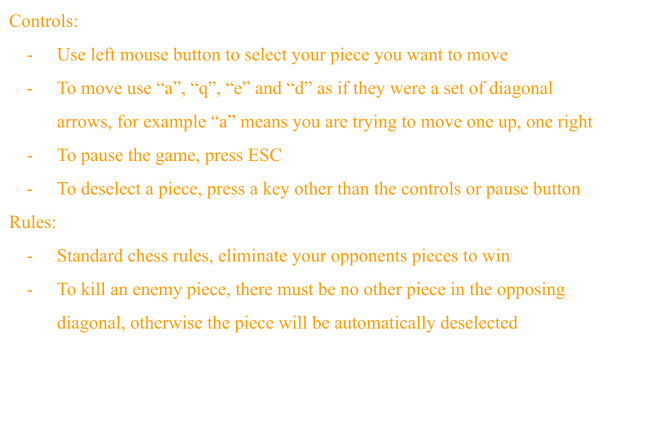
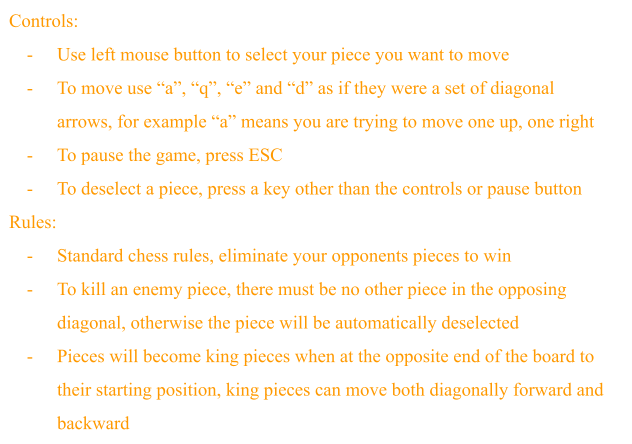
FP - Comments and King Aesthetics
- Added some comment edits as well as filling in the "features added" at the top of the screen/program info template.
- Made some aesthetics for the king pieces, they have visible crowns now as opposed to the old yellow rectangle. This is done using a function that draws these features based off the parameters specified in order to draw it on the correct piece.
- Found and fixed a minor error with some files not closing after the file was read.

diff --git a/assignment.py b/assignment.py
@@ -1,23 +1,30 @@
 #-----------------------------------------------------------------------------
-# Name:        Assignment Template (assignment.py)
+# Name:        Checkers!
 # Purpose:     A description of your program goes here.
 #
 # Author:      Gavin B.
 # Created:     04-May-2022
-# Updated:     30-May-2022
+# Updated:     31-May-2022
 #-----------------------------------------------------------------------------
 #I think this project deserves a level XXXXXX because ...
 #
+#
+#
+#
 #Features Added:
-#   ...
-#   ...
-#   ...
+#
+#   - Interactable and moveable pieces for both black and red teams
+#   - Jumping and killing, pieces will jump over the opposite teams pieces if the conditions are right
+#   - King pieces: when a piece on a team reaches the end of the board, they are granted the ability to move backwards as well as forwards
+#   - Functioning main menu and help menu that the player can go back and forth from without restarting game
+#   - Pausing, continuing and game saving as games can be saved and continued inside the program as well as outside the program, when a user stops then
+#     starts the program they can start from where they left off from or even start a new game altogether
 #-----------------------------------------------------------------------------
 
 import pygame
 import math
 
-def distFromPoints(point1, point2): # Function from python lessons, used for circle collision detection in relation to the pieces
+def distFromPoints(point1, point2): # Function from python lesson on collision detection, used for circle collision detection in relation to the pieces
     '''
     This function calculationes the distance between two points given by a set of tuples (x1,y1) and (x2,y2)
     
@@ -43,8 +50,6 @@ def main():
     
     clock = pygame.time.Clock()  #Force frame rate to be slower
     
-    frameCount = 0
-    
     # Create surface of (width, height), and its window.
     mainSurface = pygame.display.set_mode((surfaceSize, surfaceSize))
     
@@ -62,7 +67,6 @@ def main():
     red = (255, 0, 0)
     yellow = (229, 255, 0)
     green = (0, 255, 0)
-    
     goldBrown = (155, 114, 0)
     
     #Tile Variables
@@ -71,7 +75,7 @@ def main():
     tileHeight = 72
     tileShift = False
     
-    #Fonts and Text
+    #Fonts
     titleFont = pygame.font.SysFont("Times New Roman", 65)
     buttonFont = pygame.font.SysFont("Times New Roman", 26)
     
@@ -161,11 +165,11 @@ def main():
                 
                 for i in range(0, 8, 1): # Do this 8 times, number of piece indexes for red and black pieces
                     if teamStatus[i] == 'Alive':
-                        if teamPiece[i][0] == (teamPiece[selectedIndex][0]-1) and teamPiece[i][1] == (teamPiece[selectedIndex][1]+upDown): #Check for a black piece to the top left
+                        if teamPiece[i][0] == (teamPiece[selectedIndex][0]-1) and teamPiece[i][1] == (teamPiece[selectedIndex][1]+upDown): # Check for a black piece to the top left
                             canMove = False
                         
                     if enemyStatus[i] == 'Alive':
-                        if enemyPiece[i][0] == (teamPiece[selectedIndex][0]-1) and enemyPiece[i][1] == (teamPiece[selectedIndex][1]+upDown):#Check for a red piece to the top left
+                        if enemyPiece[i][0] == (teamPiece[selectedIndex][0]-1) and enemyPiece[i][1] == (teamPiece[selectedIndex][1]+upDown):# Check for a red piece to the top left
                             enemyPieceInWay = True
                             enemyIndex = i #Temp record the index of the enemy piece (in the case it needs to be killed)
                             
@@ -241,11 +245,11 @@ def main():
                 
                 for i in range(0, 8, 1): # Do this 8 times, number of piece indexes for red and black pieces
                     if teamStatus[i] == 'Alive':
-                        if teamPiece[i][0] == (teamPiece[selectedIndex][0]+1) and teamPiece[i][1] == (teamPiece[selectedIndex][1]+upDown): #Check for a team piece to the top right  
+                        if teamPiece[i][0] == (teamPiece[selectedIndex][0]+1) and teamPiece[i][1] == (teamPiece[selectedIndex][1]+upDown): # Check for a team piece to the top right  
                             canMove = False
                     
                     if enemyStatus[i] == 'Alive':
-                        if enemyPiece[i][0] == (teamPiece[selectedIndex][0]+1) and enemyPiece[i][1] == (teamPiece[selectedIndex][1]+upDown):#Check for a enemy piece to the top right
+                        if enemyPiece[i][0] == (teamPiece[selectedIndex][0]+1) and enemyPiece[i][1] == (teamPiece[selectedIndex][1]+upDown):# Check for a enemy piece to the top right
                             enemyPieceInWay = True
                             enemyIndex = i #Temp record the index of the enemy piece (in the case it needs to be killed)
                             
@@ -317,12 +321,37 @@ def main():
         None
         
         '''
-        
         for i in range(0, 8, 1):
             if blackPiece[i][1] <= 0:
                 blackKing[i] = 'King'
             if redPiece[i][1] >= 7:
                 redKing[i] = 'King'
+    
+    def drawKing(teamPiece, inputIndex):
+        '''
+        Draws the aesthetics of the king pieces using the inputed info on that piece's team as well as the
+        index of the piece that needs the crown to be drawn ontop of.
+        
+        Parameters
+        ----------
+        teamPiece : [list, list, list, list, list, list, list, list]
+            list of lists that contain the pair of numbers corresponding to the set of pieces on the specified team
+        inputIndex : int
+            the index of the piece to have a crown drawn upon them
+            
+        
+        Returns
+        -------
+        None
+        
+            
+        '''
+        # Draw commands use triple list [][][] to find the exact tuple in the board list in order to change the x and y of the rects individually
+        pygame.draw.rect(mainSurface, yellow, ( board[teamPiece[inputIndex][1]][teamPiece[inputIndex][0]] [0]-10, board[teamPiece[inputIndex][1]][teamPiece[inputIndex][0]] [1], 20, 5) )
+        pygame.draw.rect(mainSurface, yellow, ( board[teamPiece[inputIndex][1]][teamPiece[inputIndex][0]] [0]-10, board[teamPiece[inputIndex][1]][teamPiece[inputIndex][0]] [1]-5, 4, 5) )
+        pygame.draw.rect(mainSurface, yellow, ( board[teamPiece[inputIndex][1]][teamPiece[inputIndex][0]] [0]-2, board[teamPiece[inputIndex][1]][teamPiece[inputIndex][0]] [1]-5, 4, 5) )
+        pygame.draw.rect(mainSurface, yellow, ( board[teamPiece[inputIndex][1]][teamPiece[inputIndex][0]] [0]+6, board[teamPiece[inputIndex][1]][teamPiece[inputIndex][0]] [1]-5, 4, 5) )
+        
         
     def readInfo():
         '''
@@ -426,7 +455,7 @@ def main():
                 break
             
             redKing.append(theLine) # Add the line to redKing
-        redKingFile.close
+        redKingFile.close()
         
         # Read the black king values
         blackKingFile = open('last_game_info/blackKing.txt', 'r')
@@ -437,7 +466,7 @@ def main():
                 break
             
             blackKing.append(theLine) # Add the line to blackKing
-        blackKingFile.close
+        blackKingFile.close()
         
         #-Other File Reading-
         # Read the previous program state
@@ -635,16 +664,11 @@ def main():
             
     
     while True:
-        #print(f'Program Ticks: {pygame.time.get_ticks()} - frameCount: {frameCount} - programState: {programState}')
         ev = pygame.event.poll()    # Look for any event
         if ev.type == pygame.QUIT:  # Window close button clicked?
             break                   #   ... leave game loop
         
         mousePos = pygame.mouse.get_pos()#Mouse position for buttons
-        
-        frameCount+=1
-        if frameCount >= 60:
-            frameCount -= 60
         
         if programState == 'Start Menu':
             # Update your game objects and data structures here...
@@ -685,7 +709,8 @@ def main():
             elif helpButton.buttonCollidePoint(mousePos) == True: # Check if the help button has been pressed, if so go to the help menu
                 programState = 'Help Menu'
                 
-            elif exitButton.buttonCollidePoint(mousePos) == True: # If the Exit button has been pressed, break (just an alternative to the top right "X")
+            elif exitButton.buttonCollidePoint(mousePos) == True: # If the Exit button has been pressed, save info (more as a precaution) and exit
+                writeInfo()
                 break
             
             #-----Drawing-----
@@ -830,18 +855,18 @@ def main():
                 if redStatus[i] == 'Alive': # Check if the piece is alive
                     pygame.draw.circle(mainSurface, redColour[i], board[redPiece[i][1]][redPiece[i][0]], pieceRadius)
                     if redKing[i] == 'King': # Draw king details if piece has 'King' characteristic
-                        pygame.draw.rect(mainSurface, yellow, ( board[redPiece[i][1]][redPiece[i][0]][0]-10, board[redPiece[i][1]][redPiece[i][0]][1]-5, 20, 10))
+                        drawKing(redPiece, i)
             for i in range(0, 8, 1): # Draw black pieces
                 if blackStatus[i] == 'Alive': # Check if the piece is alive
                     pygame.draw.circle(mainSurface, blackColour[i], board[blackPiece[i][1]][blackPiece[i][0]], pieceRadius)
                     if blackKing[i] == 'King': # Draw king details if piece has 'King' characteristic
-                        pygame.draw.rect(mainSurface, yellow, ( board[blackPiece[i][1]][blackPiece[i][0]][0]-10, board[blackPiece[i][1]][blackPiece[i][0]][1]-5, 20, 10))
+                        drawKing(blackPiece, i)
         
         
         elif programState == 'Player 2 Turn':
             # Update your game objects and data structures here...
             
-            kingCheck()
+            kingCheck() # Check if any pieces are eligible to be a king piece
             
             if deadCheck() == 'Player 1 is dead': # Check if player 1's pieces are dead, end game if so
                 programState = 'End Screen'
@@ -906,12 +931,12 @@ def main():
                 if redStatus[i] == 'Alive': # Check if the piece is alive
                     pygame.draw.circle(mainSurface, redColour[i], board[redPiece[i][1]][redPiece[i][0]], pieceRadius)
                     if redKing[i] == 'King': # Draw king details if piece has 'King' characteristic
-                        pygame.draw.rect(mainSurface, yellow, ( board[redPiece[i][1]][redPiece[i][0]][0]-10, board[redPiece[i][1]][redPiece[i][0]][1]-5, 20, 10))
+                        drawKing(redPiece, i)
             for i in range(0, len(blackPiece), 1): # Draw black pieces
                 if blackStatus[i] == 'Alive': # Check if the piece is alive
                     pygame.draw.circle(mainSurface, blackColour[i], board[blackPiece[i][1]][blackPiece[i][0]], pieceRadius)
                     if blackKing[i] == 'King': # Draw king details if piece has 'King' characteristic
-                        pygame.draw.rect(mainSurface, yellow, ( board[blackPiece[i][1]][blackPiece[i][0]][0]-10, board[blackPiece[i][1]][blackPiece[i][0]][1]-5, 20, 10))
+                        drawKing(blackPiece, i)
             
             
         elif programState == 'End Screen':
